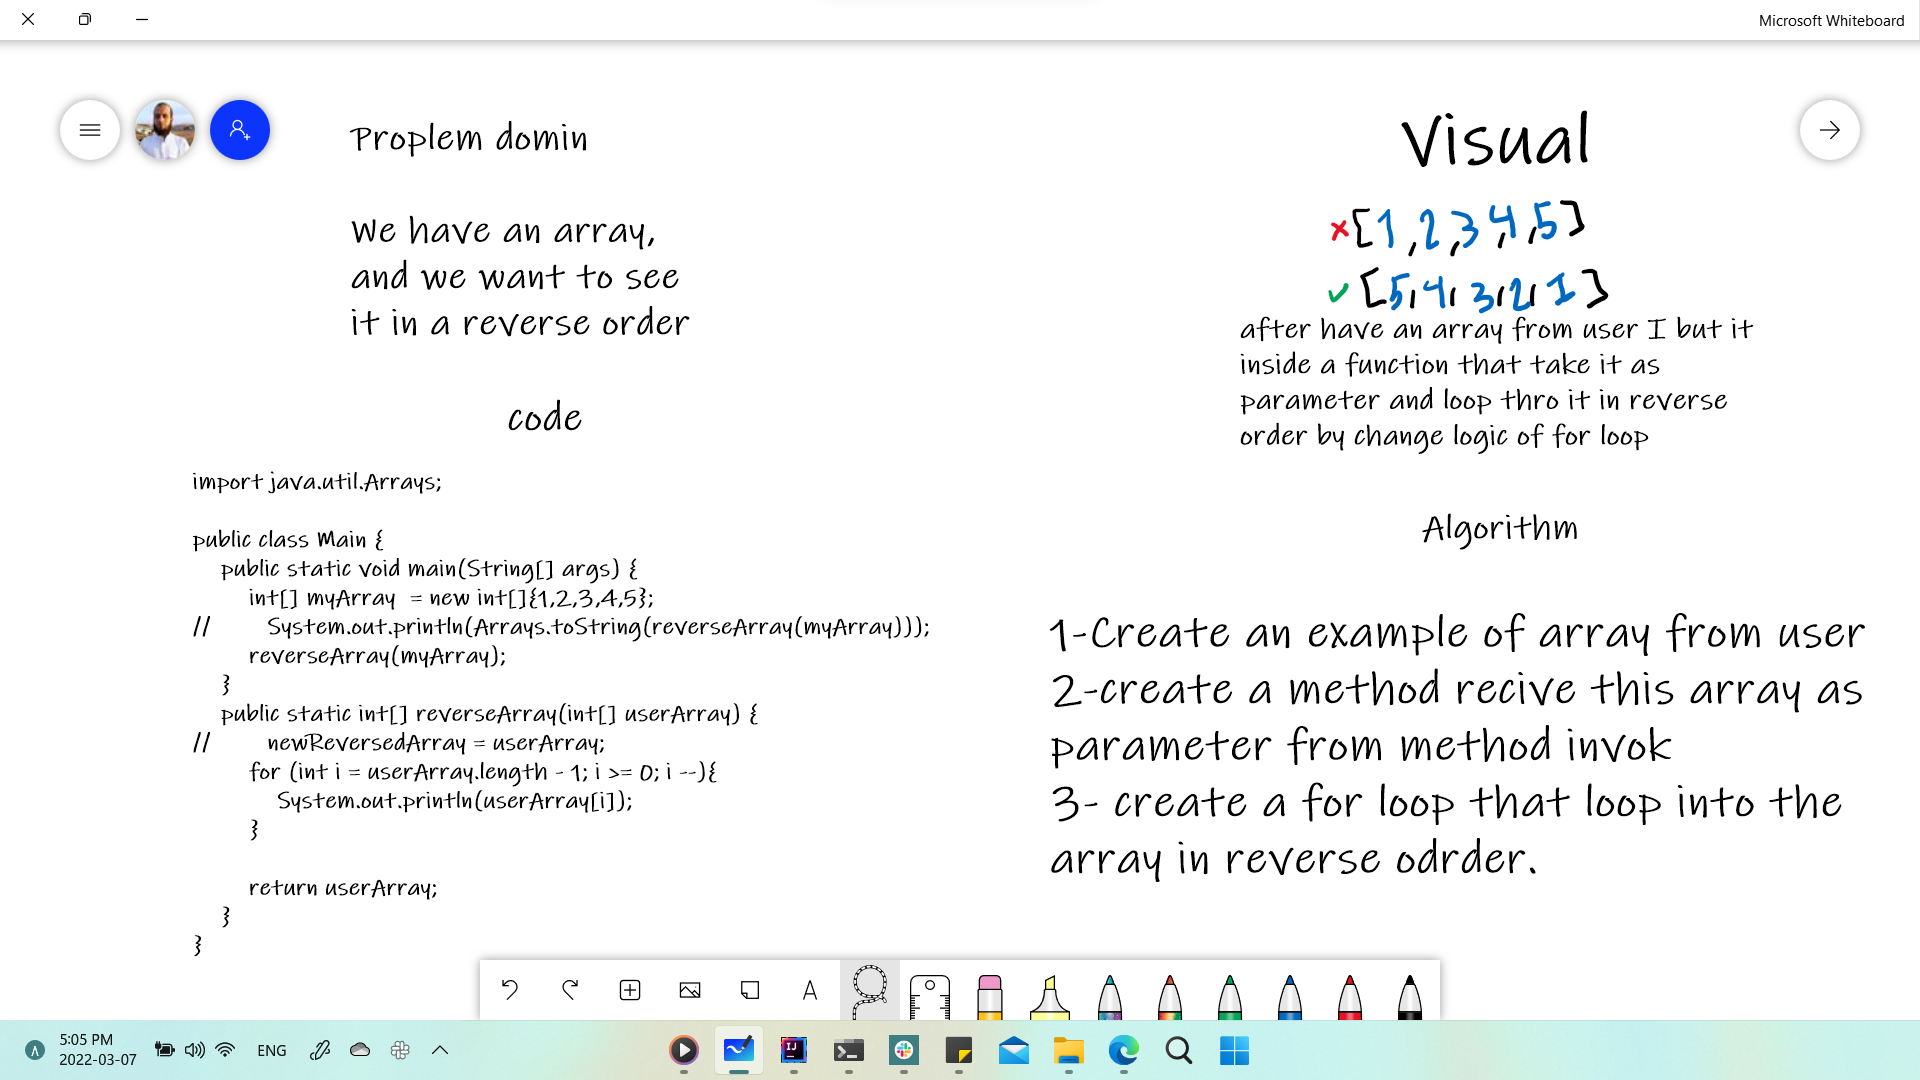
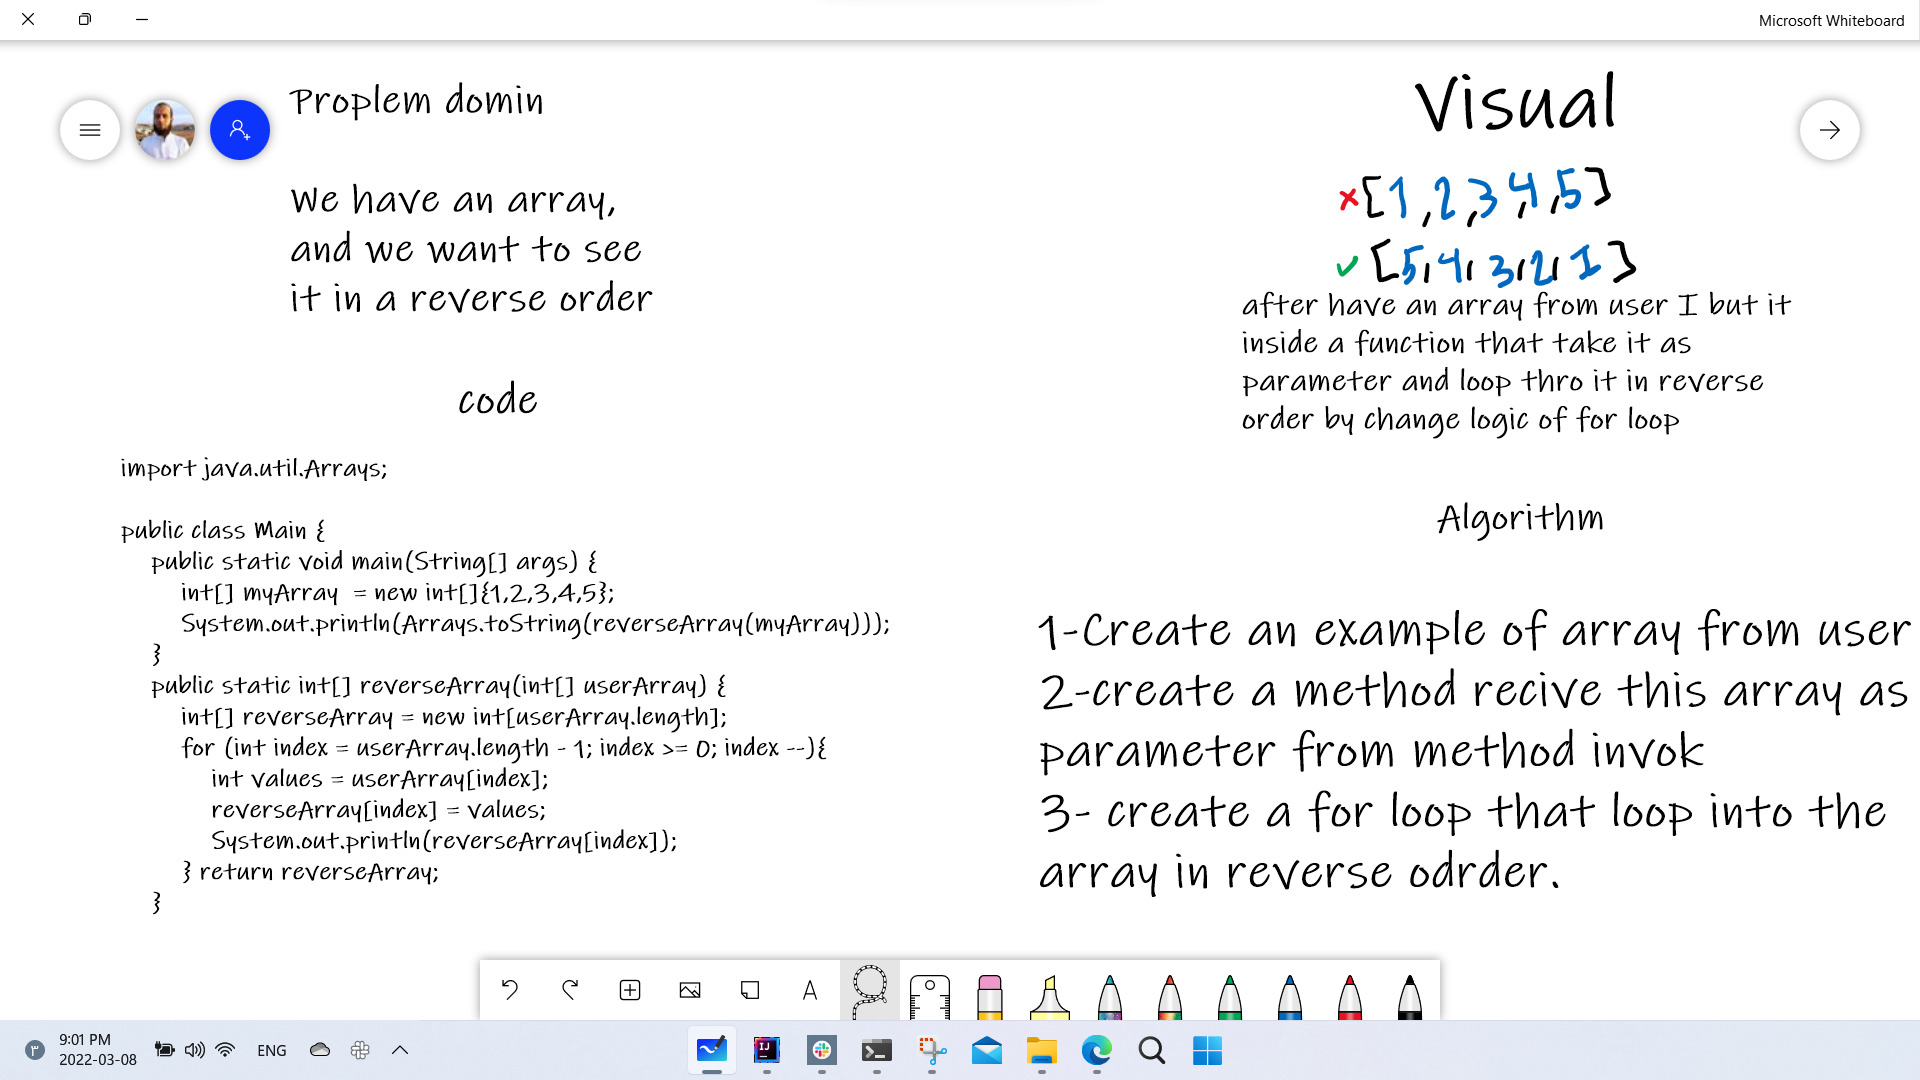
make changes in the code

diff --git a/java/README.md b/java/README.md
@@ -1,0 +1,5 @@
+# Code Challenge: Class 01
+
+### loop in reverse order into array
+
+![Code Challenge: Class 01](reverseArray.png)
